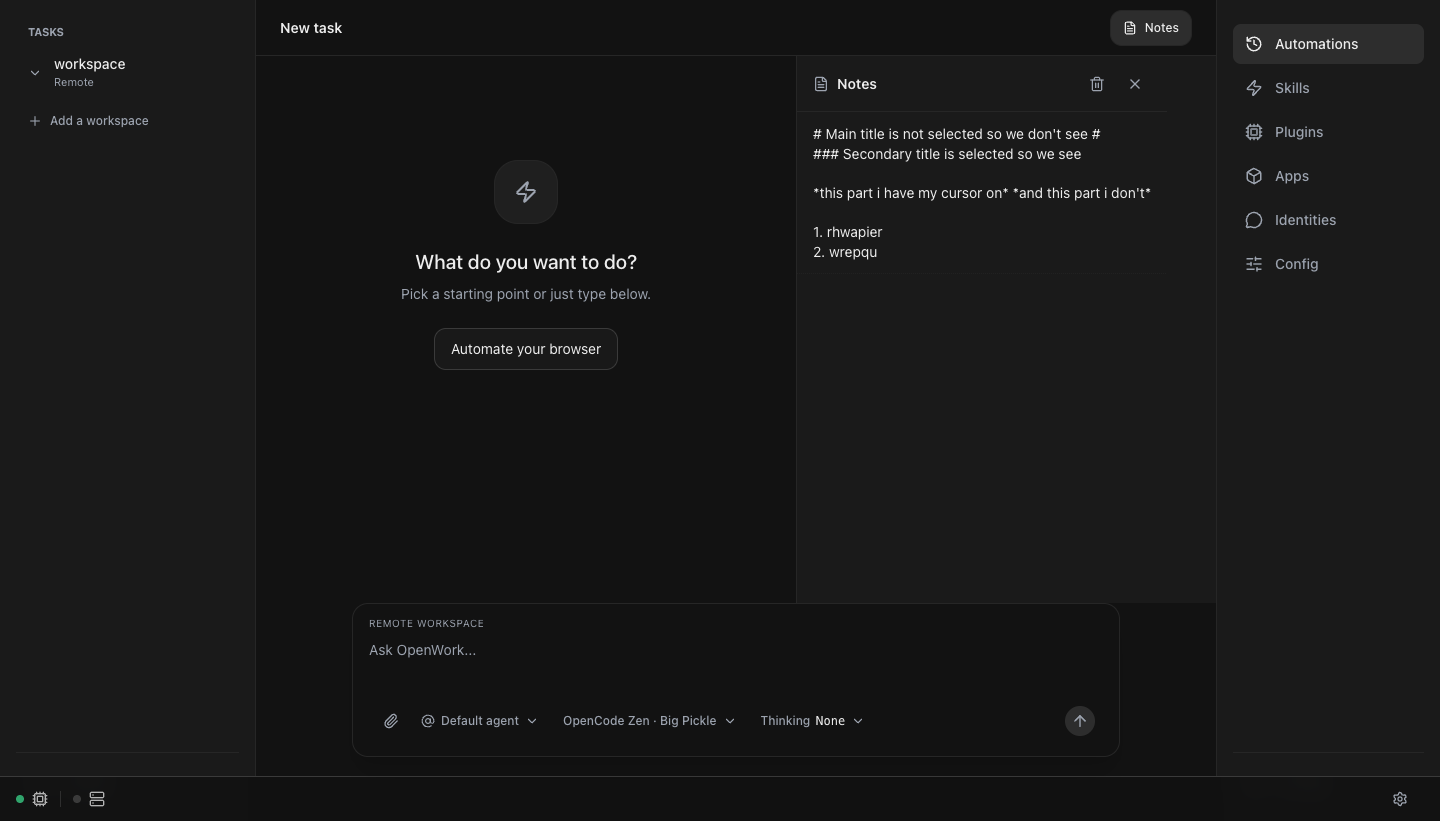
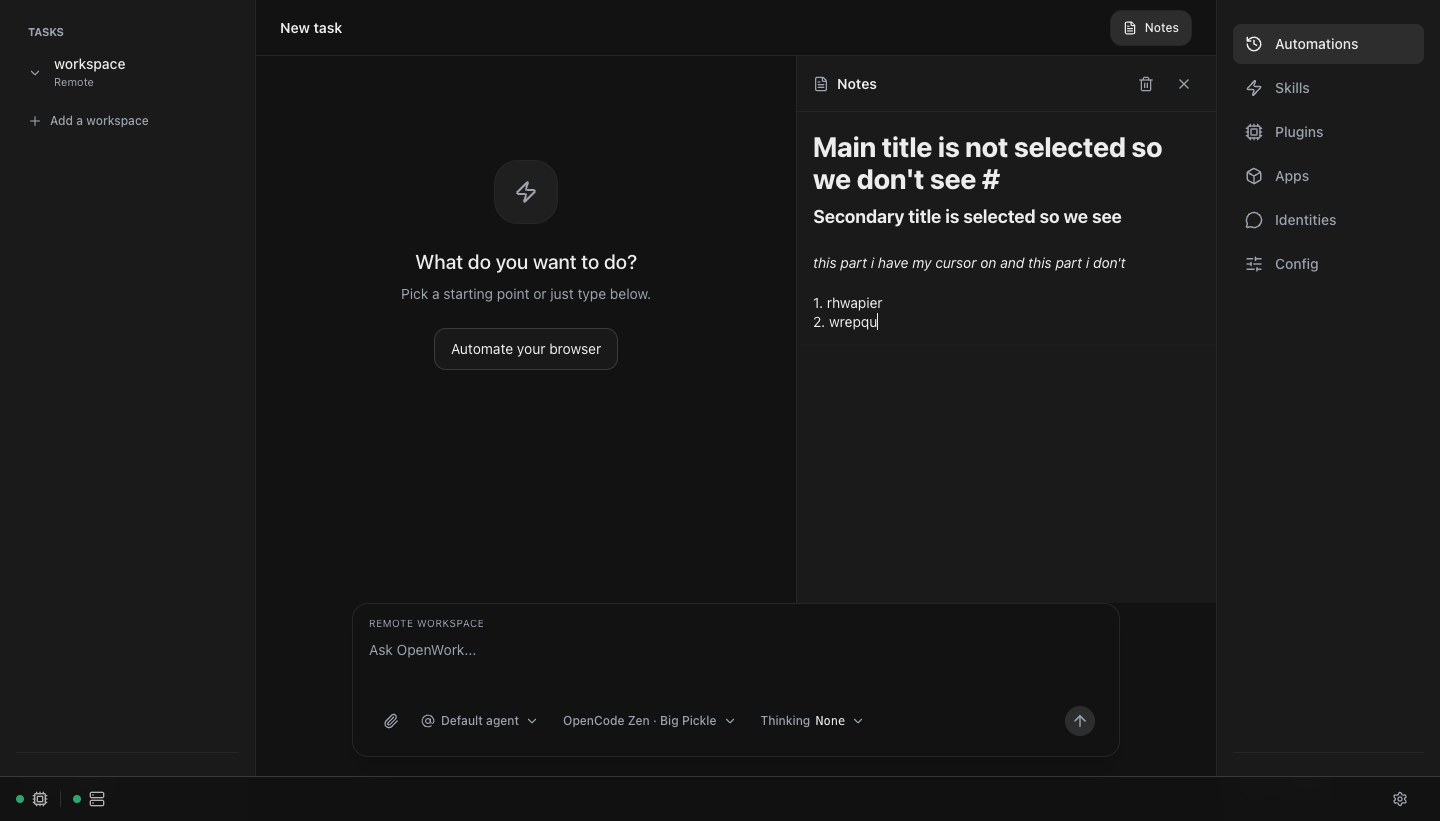
fix(notes): render live-preview decorations
Switch markdown live-preview styling to a StateField-backed decorations pipeline and use a zero-width widget for marker hiding. Update evidence screenshots to show headings/emphasis rendering.

Changed region(s): [[0.5625, 0.1523, 0.8125, 0.335], [0.75, 0.0914, 0.8125, 0.1218], [0.5625, 0.3654, 0.625, 0.3959]]

diff --git a/packages/app/src/app/components/live-markdown-editor.tsx b/packages/app/src/app/components/live-markdown-editor.tsx
@@ -1,11 +1,11 @@
 import { createEffect, onCleanup, onMount } from "solid-js";
 
-import { EditorState, RangeSetBuilder } from "@codemirror/state";
+import { EditorState, StateField } from "@codemirror/state";
 import {
   Decoration,
   type DecorationSet,
   EditorView,
-  ViewPlugin,
+  WidgetType,
   keymap,
   placeholder as cmPlaceholder,
 } from "@codemirror/view";
@@ -105,18 +105,33 @@ const findEmphasisRanges = (line: string): EmphasisRange[] => {
   return ranges;
 };
 
+class HiddenMarkerWidget extends WidgetType {
+  toDOM() {
+    // Zero-width widget that collapses the marker range.
+    const el = document.createElement("span");
+    el.setAttribute("aria-hidden", "true");
+    el.style.display = "inline-block";
+    el.style.width = "0";
+    el.style.overflow = "hidden";
+    return el;
+  }
+}
+
 const obsidianishLivePreview = () => {
   const headingLine = (level: number) =>
-    Decoration.line({ class: `cm-ow-heading cm-ow-heading-${level}` });
-  const hide = Decoration.replace({});
+    Decoration.line({ attributes: { class: `cm-ow-heading cm-ow-heading-${level}` } });
+  const hide = Decoration.replace({ widget: new HiddenMarkerWidget() });
   const emMark = Decoration.mark({ class: "cm-ow-em" });
   const strongMark = Decoration.mark({ class: "cm-ow-strong" });
 
-  const compute = (view: EditorView): DecorationSet => {
-    const builder = new RangeSetBuilder<Decoration>();
+  const compute = (state: EditorState): DecorationSet => {
+    const ranges: any[] = [];
+    const add = (from: number, to: number, deco: any) => {
+      ranges.push(deco.range(from, to));
+    };
 
-    const doc = view.state.doc;
-    const selections = view.state.selection.ranges;
+    const doc = state.doc;
+    const selections = state.selection.ranges;
     const activeLines = new Set<number>();
     for (const r of selections) {
       const fromLine = doc.lineAt(r.from).number;
@@ -125,10 +140,9 @@ const obsidianishLivePreview = () => {
       if (r.empty) activeLines.add(doc.lineAt(r.head).number);
     }
 
-    const cursorPos = view.state.selection.main.head;
-    let pos = view.viewport.from;
-    while (pos <= view.viewport.to) {
-      const line = doc.lineAt(pos);
+    const cursorPos = state.selection.main.head;
+    for (let lineNumber = 1; lineNumber <= doc.lines; lineNumber += 1) {
+      const line = doc.line(lineNumber);
       const lineText = line.text;
       const lineActive = activeLines.has(line.number);
 
@@ -136,11 +150,11 @@ const obsidianishLivePreview = () => {
       const headingMatch = /^(#{1,6})\s+/.exec(lineText);
       if (headingMatch) {
         const level = headingMatch[1]?.length ?? 1;
-        builder.add(line.from, line.from, headingLine(level));
+        add(line.from, line.from, headingLine(level));
 
         if (!lineActive) {
           const markerLen = (headingMatch[0] ?? "").length;
-          builder.add(line.from, line.from + markerLen, hide);
+          add(line.from, line.from + markerLen, hide);
         }
       }
 
@@ -156,36 +170,35 @@ const obsidianishLivePreview = () => {
 
         const cursorInside = cursorPos >= absOpenFrom && cursorPos <= absCloseTo;
         const mark = r.kind === "strong" ? strongMark : emMark;
-        builder.add(absContentFrom, absContentTo, mark);
 
         if (!cursorInside) {
-          builder.add(absOpenFrom, absOpenTo, hide);
-          builder.add(absCloseFrom, absCloseTo, hide);
+          add(absOpenFrom, absOpenTo, hide);
+        }
+
+        add(absContentFrom, absContentTo, mark);
+
+        if (!cursorInside) {
+          add(absCloseFrom, absCloseTo, hide);
         }
       }
 
-      pos = line.to + 1;
     }
 
-    return builder.finish();
+    return Decoration.set(ranges, true);
   };
 
-  return ViewPlugin.fromClass(
-    class {
-      decorations: DecorationSet;
-      constructor(view: EditorView) {
-        this.decorations = compute(view);
-      }
-      update(update: any) {
-        if (update.docChanged || update.selectionSet || update.viewportChanged) {
-          this.decorations = compute(update.view);
-        }
-      }
+  const field = StateField.define<DecorationSet>({
+    create(state) {
+      return compute(state);
     },
-    {
-      decorations: (v: any) => v.decorations,
-    }
-  );
+    update(value, tr) {
+      if (tr.docChanged || tr.selection) return compute(tr.state);
+      return value;
+    },
+    provide: (f) => EditorView.decorations.from(f),
+  });
+
+  return field;
 };
 
 const editorTheme = EditorView.theme({
